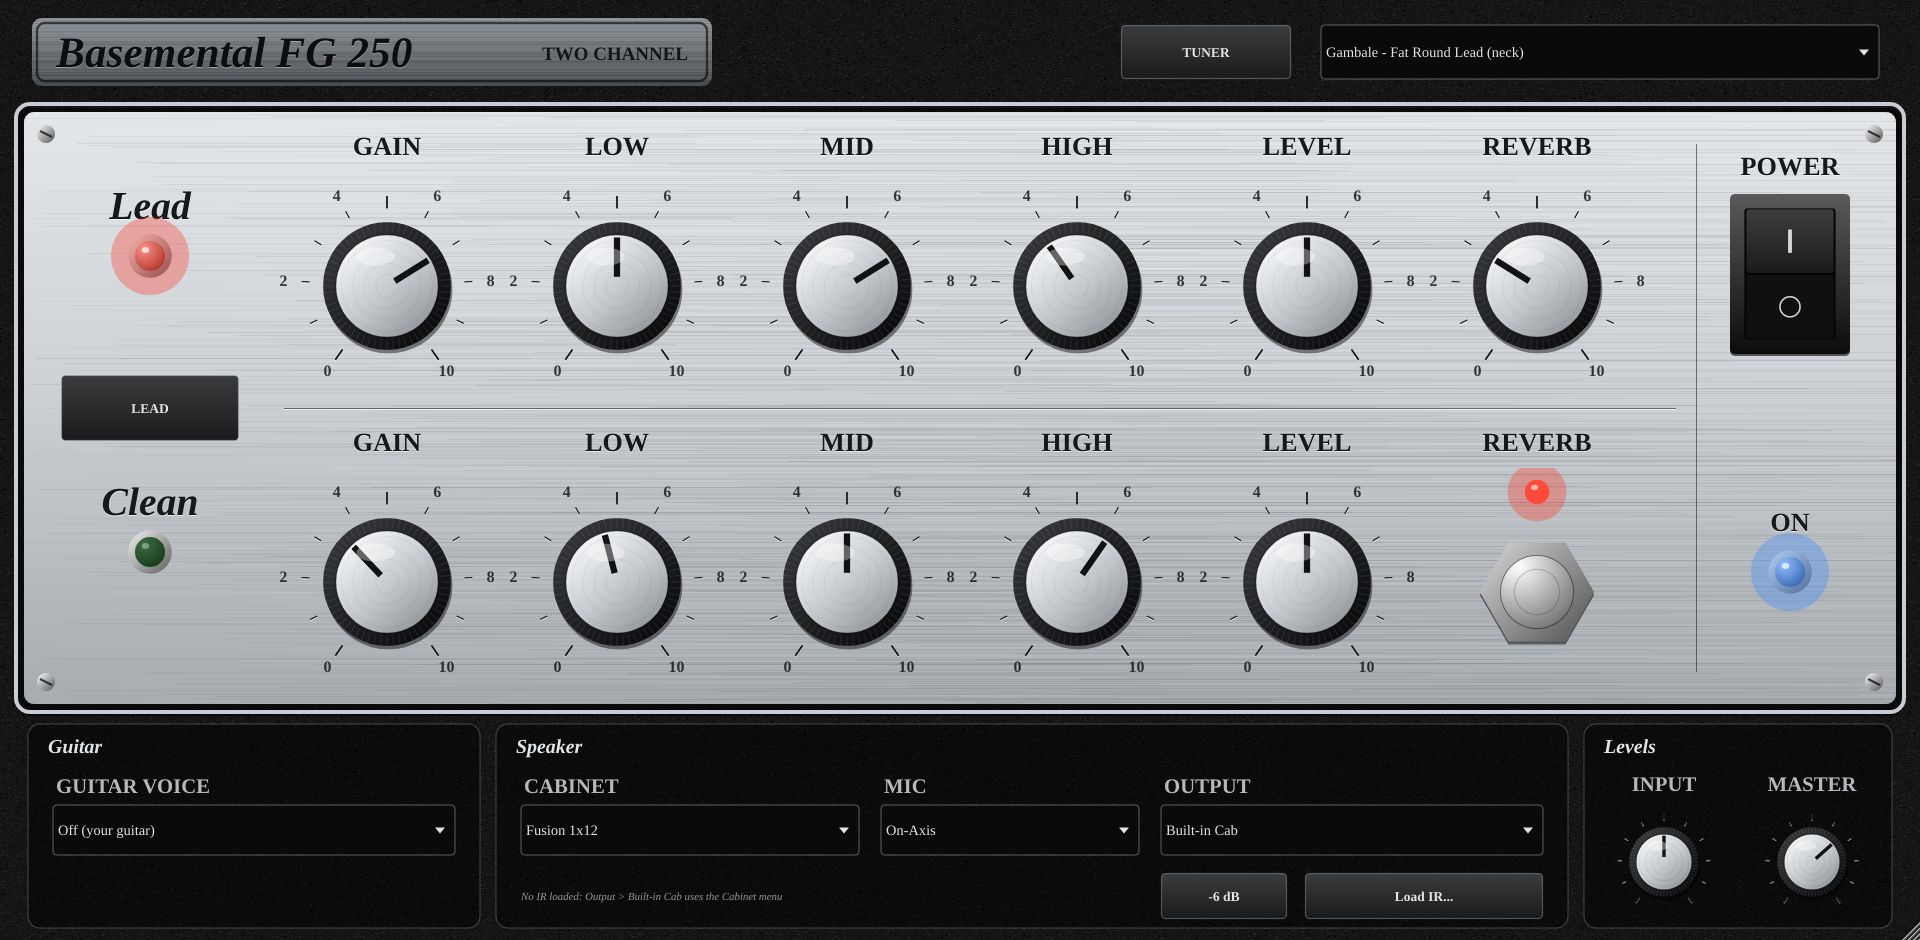
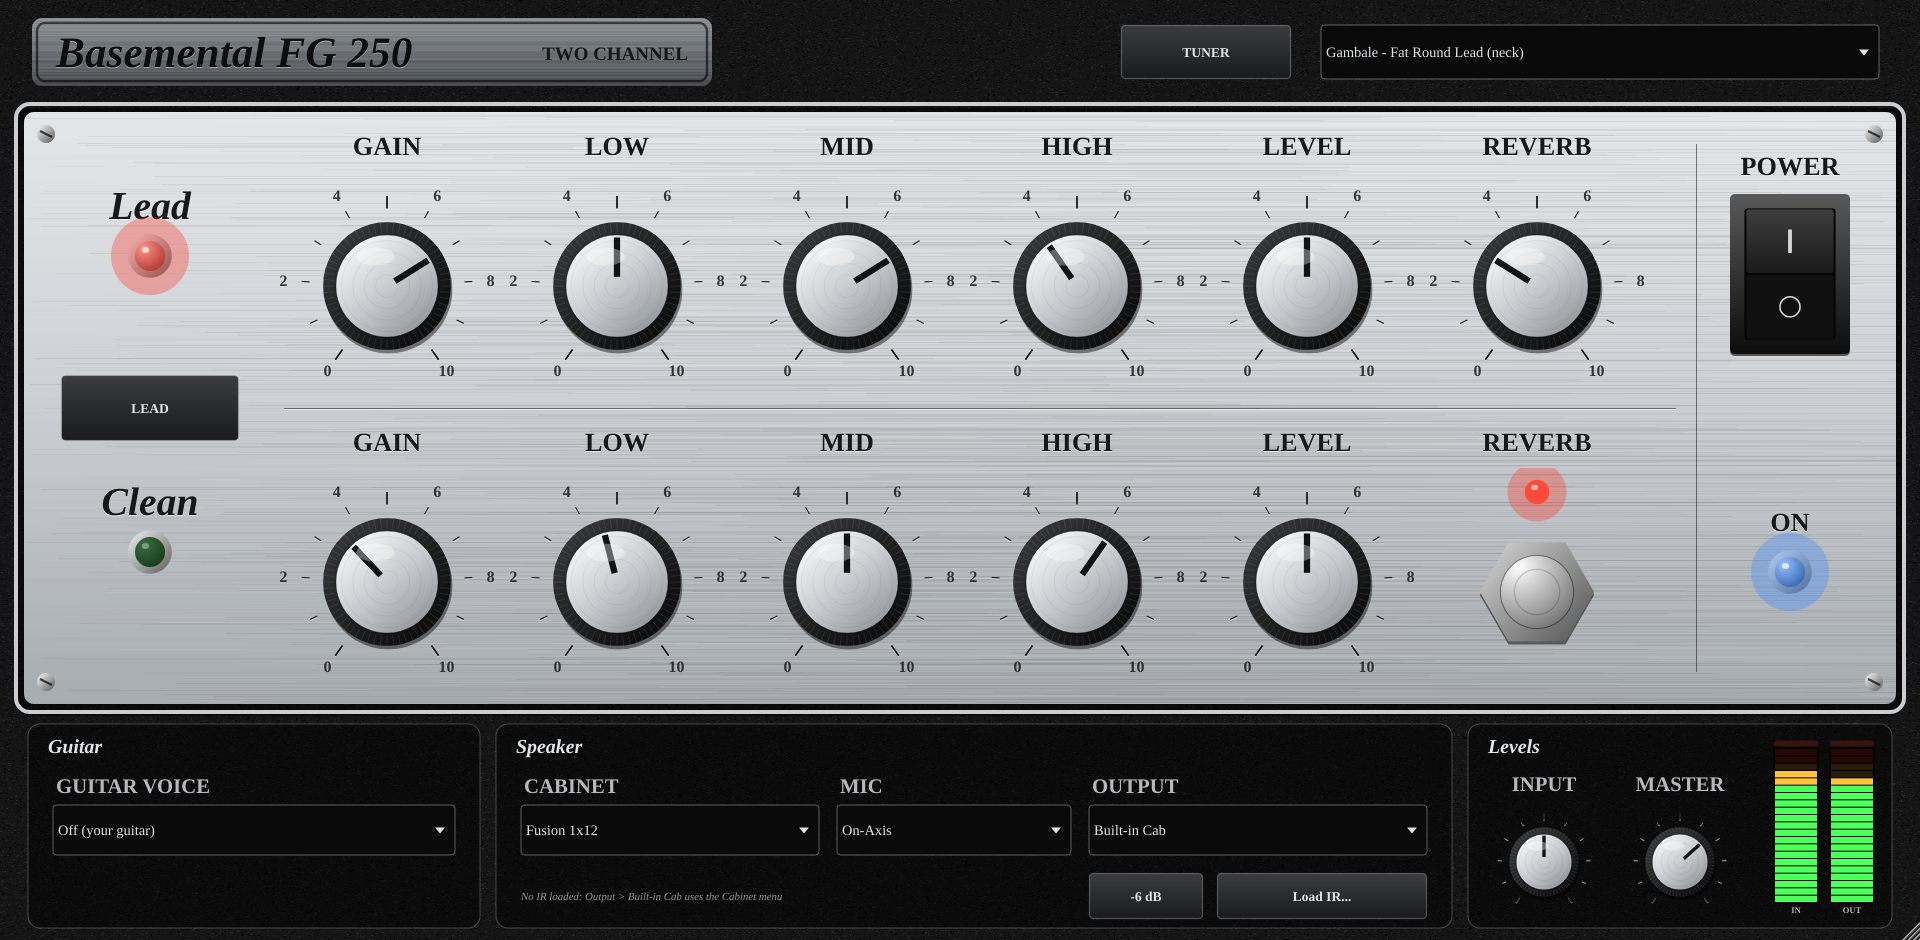
Add input/output LED level meters with peak hold and clip lights
Claude-Session: https://claude.ai/code/session_01SErY97rsBrNjufxFoFZJH3

diff --git a/Source/PluginEditor.cpp b/Source/PluginEditor.cpp
@@ -254,12 +254,16 @@ Fusion250Editor::Fusion250Editor (Fusion250Processor& p) : AudioProcessorEditor 
     powerBtn.setTooltip ("Power: off silences the amp (the tuner keeps working)");
     powerBtn.onStateChange = [this] { repaint(); };
     addAndMakeVisible (powerBtn);
+    addAndMakeVisible (inMeter);
+    addAndMakeVisible (outMeter);
+    inMeter.setTooltip ("Input level (after the Input knob). Click to reset the clip light");
+    outMeter.setTooltip ("Output level. Click to reset the clip light");
     powerAtt = std::make_unique<juce::AudioProcessorValueTreeState::ButtonAttachment> (proc.apvts, "power", powerBtn);
 
     setResizable (true, true);
     if (auto* c = getConstrainer()) { c->setFixedAspectRatio ((double) kW / kH); c->setSizeLimits (kW * 2 / 3, kH * 2 / 3, kW * 2, kH * 2); }
     setSize (kW, kH);
-    startTimerHz (20);
+    startTimerHz (30);
     timerCallback();
 }
 
@@ -272,6 +276,8 @@ Fusion250Editor::~Fusion250Editor()
 
 void Fusion250Editor::timerCallback()
 {
+    inMeter.push (proc.takeInputPeak(), 1.0 / 30.0);
+    outMeter.push (proc.takeOutputPeak(), 1.0 / 30.0);
     const bool lead = proc.apvts.getRawParameterValue ("channel")->load() > 0.5f;
     if (lead != leadOn) { leadOn = lead; repaint(); }
     channelBtn.setButtonText (leadOn ? "LEAD" : "CLEAN");
@@ -470,24 +476,26 @@ void Fusion250Editor::resized()
     // footer: three grouped panels
     const int gy = footer.getY() + S (4), gh = footer.getHeight() - S (10);
     guitarGroup  = { S (14), gy, S (226), gh };
-    speakerGroup = { S (248), gy, S (536), gh };
-    levelGroup   = { S (792), gy, S (154), gh };
+    speakerGroup = { S (248), gy, S (478), gh };
+    levelGroup   = { S (734), gy, S (212), gh };
     const int fy = gy + S (40), fy2 = gy + S (74);
     guitarBox.setBounds (guitarGroup.getX() + S (12), fy, S (202), S (26));
-    cabBox.setBounds (speakerGroup.getX() + S (12), fy, S (170), S (26));
-    micBox.setBounds (speakerGroup.getX() + S (192), fy, S (130), S (26));
-    outputBox.setBounds (speakerGroup.getX() + S (332), fy, S (192), S (26));
-    padBtn.setBounds (speakerGroup.getX() + S (332), fy2, S (64), S (24));
-    irBtn.setBounds (speakerGroup.getX() + S (404), fy2, S (120), S (24));
-    irLabel.setBounds (speakerGroup.getX() + S (10), fy2, S (316), S (24));
+    cabBox.setBounds (speakerGroup.getX() + S (12), fy, S (150), S (26));
+    micBox.setBounds (speakerGroup.getX() + S (170), fy, S (118), S (26));
+    outputBox.setBounds (speakerGroup.getX() + S (296), fy, S (170), S (26));
+    padBtn.setBounds (speakerGroup.getX() + S (296), fy2, S (58), S (24));
+    irBtn.setBounds (speakerGroup.getX() + S (360), fy2, S (106), S (24));
+    irLabel.setBounds (speakerGroup.getX() + S (10), fy2, S (280), S (24));
+    inMeter.setBounds (levelGroup.getX() + S (152), gy + S (8), S (24), gh - S (14));
+    outMeter.setBounds (levelGroup.getX() + S (180), gy + S (8), S (24), gh - S (14));
 
     auto smallKnob = [&] (Knob& k, int cx)
     {
         const int sz = S (62);
         k.slider->setBounds (cx - sz / 2, gy + S (38), sz, sz);
     };
-    smallKnob (knobs[11], levelGroup.getX() + S (40));
-    smallKnob (knobs[12], levelGroup.getX() + S (114));
+    smallKnob (knobs[11], levelGroup.getX() + S (38));
+    smallKnob (knobs[12], levelGroup.getX() + S (106));
 }
 
 // =================================================================== rocker
@@ -560,4 +568,46 @@ void FootswitchButton::paintButton (juce::Graphics& g, bool over, bool down)
     g.setColour (juce::Colours::black.withAlpha (0.18f));
     g.drawEllipse (c.x - cr * 0.62f, c.y - cr * 0.62f, cr * 1.24f, cr * 1.24f, 1.2f);
     if (over) { g.setColour (juce::Colours::white.withAlpha (0.08f)); g.fillEllipse (c.x - cr, c.y - cr, cr * 2, cr * 2); }
+}
+
+// ================================================================== meters
+void LevelMeter::push (float peak, double dt)
+{
+    const float db = juce::Decibels::gainToDecibels (peak, -100.0f);
+    levelDb = db > levelDb ? db : juce::jmax (db, levelDb - (float) (dt * 26.0));   // ~26 dB/s fall
+    if (db >= holdDb) { holdDb = db; holdAge = 0; }
+    else if ((holdAge += dt) > 1.5) holdDb = juce::jmax (levelDb, holdDb - (float) (dt * 40.0));
+    if (db >= -0.1f) clipped = true;
+    repaint();
+}
+
+void LevelMeter::paint (juce::Graphics& g)
+{
+    auto r = getLocalBounds().toFloat();
+    const float labelH = 12.0f, clipH = 7.0f;
+    auto clip = r.removeFromTop (clipH).reduced (2.0f, 0.5f);
+    g.setColour (clipped ? juce::Colour (0xffff3a2a) : juce::Colour (0xff3a1210));
+    g.fillRoundedRectangle (clip, 2.0f);
+    auto lab = r.removeFromBottom (labelH);
+    g.setColour (juce::Colour (0xffe2e5e8).withAlpha (0.8f));
+    g.setFont (juce::FontOptions (juce::Font::getDefaultSerifFontName(), 9.5f, juce::Font::bold));
+    g.drawText (label, lab, juce::Justification::centred);
+
+    auto bar = r.reduced (3.0f, 2.0f);
+    g.setColour (juce::Colours::black);
+    g.fillRoundedRectangle (bar.expanded (1.5f), 2.0f);
+    const int segs = 21;
+    const float gap = 1.0f, sh = (bar.getHeight() - gap * (segs - 1)) / segs;
+    auto toFrac = [] (float db) { return juce::jlimit (0.0f, 1.0f, (db + 60.0f) / 63.0f); };   // -60..+3 dB
+    for (int i = 0; i < segs; ++i)
+    {
+        const float lo = (float) i / segs;                     // segment from the bottom
+        const float segDb = lo * 63.0f - 60.0f;
+        const juce::Colour col = segDb >= -3.0f ? juce::Colour (0xffff3a2a) : segDb >= -12.0f ? juce::Colour (0xffffc23a) : juce::Colour (0xff4cff5a);
+        const bool lit = toFrac (levelDb) > lo;
+        const bool hold = std::abs (toFrac (holdDb) - lo) < 0.5f / segs && holdDb > -60.0f;
+        const auto seg = juce::Rectangle<float> (bar.getX(), bar.getBottom() - (i + 1) * sh - i * gap, bar.getWidth(), sh);
+        g.setColour (lit || hold ? col : col.darker (3.0f).withAlpha (0.6f));
+        g.fillRect (seg);
+    }
 }

diff --git a/Source/PluginProcessor.cpp b/Source/PluginProcessor.cpp
@@ -234,6 +234,10 @@ void Fusion250Processor::processBlock (juce::AudioBuffer<float>& buffer, juce::M
         if (numIn > 1) { juce::FloatVectorOperations::add (m, buffer.getReadPointer (1), n); juce::FloatVectorOperations::multiply (m, 0.5f, n); }
     }
 
+    // input meter: what reaches the amp (after the Input trim)
+    atomicMax (inPeak, juce::FloatVectorOperations::findMaximum (m, n) * juce::Decibels::decibelsToGain (p.inDb));
+    atomicMax (inPeak, -juce::FloatVectorOperations::findMinimum (m, n) * juce::Decibels::decibelsToGain (p.inDb));
+
     // tuner taps the raw input, ahead of the amp (like a pedal at the front)
     const bool tuning = tunerOpen.load (std::memory_order_relaxed);
     if (tuning) tunerRing.push (m, n);
@@ -269,6 +273,7 @@ void Fusion250Processor::processBlock (juce::AudioBuffer<float>& buffer, juce::M
     powerGain = powerTarget;
 
     if (tuning && v (ID::tunerMute) > 0.5f) buffer.clear();
+    for (int c = 0; c < numOut; ++c) atomicMax (outPeak, buffer.getMagnitude (c, 0, n));
 }
 
 bool Fusion250Processor::loadImpulseResponse (const juce::File& file)

diff --git a/Source/PluginEditor.h b/Source/PluginEditor.h
@@ -33,6 +33,21 @@ public:
     void paintButton (juce::Graphics&, bool over, bool down) override;
 };
 
+// LED-style peak meter: -60..+3 dBFS, peak hold, latching clip light (click to reset)
+class LevelMeter : public juce::Component, public juce::SettableTooltipClient
+{
+public:
+    explicit LevelMeter (juce::String l) : label (std::move (l)) {}
+    void push (float peakLinear, double dt);
+    void paint (juce::Graphics&) override;
+    void mouseDown (const juce::MouseEvent&) override { clipped = false; repaint(); }
+private:
+    juce::String label;
+    float levelDb = -100, holdDb = -100;
+    double holdAge = 0;
+    bool clipped = false;
+};
+
 class Fusion250Editor : public juce::AudioProcessorEditor, private juce::Timer
 {
 public:
@@ -62,6 +77,7 @@ private:
     FootswitchButton reverbBtn;
     TunerPanel tuner;
     RockerSwitch powerBtn;
+    LevelMeter inMeter { "IN" }, outMeter { "OUT" };
     std::unique_ptr<juce::AudioProcessorValueTreeState::ButtonAttachment> powerAtt;
     juce::ComboBox guitarBox, outputBox, presetBox, cabBox, micBox;
     juce::Label irLabel;

diff --git a/tests/gui_snapshot.cpp b/tests/gui_snapshot.cpp
@@ -29,6 +29,15 @@ int main (int argc, char** argv)
     proc->setCurrentProgram (5);
 
     std::unique_ptr<juce::AudioProcessorEditor> ed (proc->createEditor());
+    {   // play a note so the level meters show something
+        juce::AudioBuffer<float> b (2, 512); juce::MidiBuffer mb; double ph0 = 0;
+        for (int blk = 0; blk < 12; ++blk)
+        {
+            for (int i = 0; i < 512; ++i) { const float v = 0.4f * (float) std::sin (ph0); ph0 += 2 * juce::MathConstants<double>::pi * 110.0 / fs; b.setSample (0, i, v); b.setSample (1, i, v); }
+            proc->processBlock (b, mb);
+            if (blk % 3 == 2) { std::this_thread::sleep_for (std::chrono::milliseconds (35)); juce::Timer::callPendingTimersSynchronously(); }
+        }
+    }
     snapshot (*ed, outDir.getChildFile ("amp.png"));
     {   // high-resolution front plate (2x)
         const int w = ed->getWidth(), h = ed->getHeight();

diff --git a/Source/PluginProcessor.h b/Source/PluginProcessor.h
@@ -58,6 +58,17 @@ private:
     juce::AudioBuffer<float> monoIn, stereoTmp;
     int currentPreset = 0;
     float powerGain = 1.0f;
+public:
+    // level meters: peak since the GUI last read (linear)
+    float takeInputPeak()  { return inPeak.exchange (0.0f); }
+    float takeOutputPeak() { return outPeak.exchange (0.0f); }
+private:
+    std::atomic<float> inPeak { 0.0f }, outPeak { 0.0f };
+    static void atomicMax (std::atomic<float>& a, float v)
+    {
+        float cur = a.load (std::memory_order_relaxed);
+        while (v > cur && ! a.compare_exchange_weak (cur, v, std::memory_order_relaxed)) {}
+    }
 
     fusion::SampleRing tunerRing { 18 };
     std::atomic<bool> tunerOpen { false };
